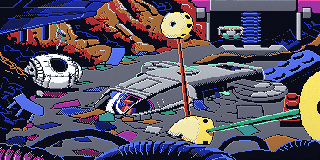
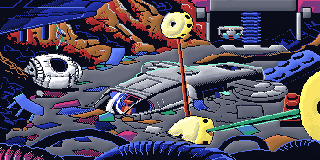
Style pass 1 for the Act 1 restyle: volume shading, banded gradients, warm/cool light; donor patch for the ship yard
Claude-Session: https://claude.ai/code/session_01KMMpWo1pAxVCtPqbSi1RBM

diff --git a/tools/paint/restyle.py b/tools/paint/restyle.py
@@ -99,10 +99,16 @@ def erase_boxes(lab, boxes, top=10):
     return lab
 
 
-def restyle(path, rows=160, top=10, height=190, seed=3, light=0.07, edge=0.22, grain=0.5, texture=0.018, erase=()):
+def restyle(path, rows=160, top=10, height=190, seed=3, light=0.07, edge=0.12, grain=0.3, texture=0.012, erase=(), volume=0.26, bands=5, colors=112, donor=None):
     idx = load_indices(path, top, height)
     lab = dedither(idx)
-    lab = erase_boxes(lab, erase, top)
+    if donor is not None and erase:
+        # the same scene without the figure: copy the labels from there instead of guessing them
+        dlab = dedither(load_indices(donor, top, height))
+        for (x0, y0, x1, y1) in erase:
+            lab[max(0, y0 - top):y1 - top + 1, x0:x1 + 1] = dlab[max(0, y0 - top):y1 - top + 1, x0:x1 + 1]
+    else:
+        lab = erase_boxes(lab, erase, top)
     # resample rows (the picture is squeezed vertically to fit the game's picture area)
     ys = np.minimum(((np.arange(rows) + 0.5) * height / rows).astype(int), height - 1)
     lab = lab[ys]
@@ -113,7 +119,7 @@ def restyle(path, rows=160, top=10, height=190, seed=3, light=0.07, edge=0.22, g
     comp, n = components(lab)
     out = base.copy()
     yy = np.arange(h)[:, None].repeat(w, 1)
-    # per-region vertical light: lighter at the top of each shape, darker at the bottom
+    # per-region light: a banded gradient from top to bottom, stronger on big surfaces
     for c in range(n):
         m = comp == c
         cnt = m.sum()
@@ -123,10 +129,33 @@ def restyle(path, rows=160, top=10, height=190, seed=3, light=0.07, edge=0.22, g
         y0, y1 = ys_.min(), ys_.max()
         if y1 - y0 < 6:
             continue
+        amp = light * (2.2 if cnt > 1500 else 1.0)
         t = (yy - y0) / max(1, y1 - y0)
-        k = 1 + light * (0.5 - t)
-        out[m] = out[m] * k[m][:, None]
-    # edge light: top/left edges of a shape catch light, bottom/right edges fall into shade
+        tq = (np.floor(np.clip(t, 0, 0.999) * bands) + 0.5) / bands            # banded, as in the reference frames
+        out[m] = out[m] * (1 + amp * (0.5 - tq))[m][:, None]
+    # volume: each shape is lit from the top left, so its top/left rim brightens and its bottom/right rim darkens,
+    # rounded over a few pixels; lit areas turn slightly warm, shaded areas slightly cool
+    lit_total = np.zeros((h, w), np.float32)
+    for c in range(n):
+        m = comp == c
+        cnt = m.sum()
+        if cnt < 40 or lab[m][0] == 0:
+            continue
+        mf = m.astype(np.float32)
+        bl = box_blur(box_blur(mf, 2), 2)
+        gy, gx = np.gradient(bl)
+        lit = 0.7071 * (gx + gy)
+        mx = np.abs(lit).max()
+        if mx <= 0:
+            continue
+        lit = lit / mx
+        lit_total = np.where(m, lit, lit_total)
+    k = np.where(lit_total > 0, 1 + volume * lit_total, 1 + volume * 0.8 * lit_total)
+    k = np.clip(k, 0.72, 1.2)
+    out = out * k[..., None]
+    out[..., 0] *= 1 + 0.05 * lit_total
+    out[..., 2] *= 1 - 0.05 * lit_total
+    # edge light between neighbouring shapes
     L = lum(base)
     def shifted(arr, dy, dx):
         return np.roll(np.roll(arr, dy, 0), dx, 1)
@@ -134,7 +163,6 @@ def restyle(path, rows=160, top=10, height=190, seed=3, light=0.07, edge=0.22, g
         nb_comp = shifted(comp, dy, dx)
         nb_L = shifted(L, dy, dx)
         diff = (nb_comp != comp) & (np.abs(nb_L - L) > 14)
-        # the neighbour must be darker for a highlight (light falls on the edge facing it), lighter for a shade
         if sign > 0:
             sel = diff & (nb_L < L)
             out = np.where(sel[..., None], out * (1 + edge), out)
@@ -146,7 +174,16 @@ def restyle(path, rows=160, top=10, height=190, seed=3, light=0.07, edge=0.22, g
     out = out * (1 + (rng.random((h, w, 1)) - 0.5) * 2 * texture)
     out = out + rng.normal(0, grain, (h, w, 1))
     img = Image.fromarray(np.clip(out, 0, 255).astype(np.uint8), "RGB")
-    return img.quantize(colors=128, method=Image.Quantize.MEDIANCUT, dither=Image.Dither.NONE).convert("RGB")
+    return img.quantize(colors=colors, method=Image.Quantize.MEDIANCUT, dither=Image.Dither.NONE).convert("RGB")
+
+
+def box_blur(a, r):
+    k = 2 * r + 1
+    p = np.pad(a, r, mode="edge")
+    c = np.cumsum(np.pad(p, ((0, 0), (1, 0))), axis=1)
+    p = (c[:, k:] - c[:, :-k]) / k
+    c = np.cumsum(np.pad(p, ((1, 0), (0, 0))), axis=0)
+    return (c[k:] - c[:-k]) / k
 
 
 def lum(rgb):

diff --git a/tools/paint/build_act1.py b/tools/paint/build_act1.py
@@ -20,7 +20,7 @@ SPEC = {
     "rail_walk": (21, [(234, 136, 264, 168)]),
     "rat_lair": (24, [(248, 106, 268, 134)]),
     "mallard_bay": (22, []),
-    "mallard_bay_l": (28, [(190, 74, 212, 100)]),
+    "mallard_bay_l": (28, [(190, 74, 212, 100)]),   # painted out using the same yard from screen 22
     "cockpit": (29, []),
 }
 
@@ -32,7 +32,8 @@ def main():
         if not os.path.exists(p):
             print("missing reference", p)
             continue
-        restyle(p, erase=boxes).save(OUT + name + ".png")
+        donor = REF + "s022.png" if name == "mallard_bay_l" else None
+        restyle(p, erase=boxes, donor=donor).save(OUT + name + ".png")
         done.append(name)
     print(len(done), "backgrounds:", " ".join(done))
     if len(sys.argv) > 1:
